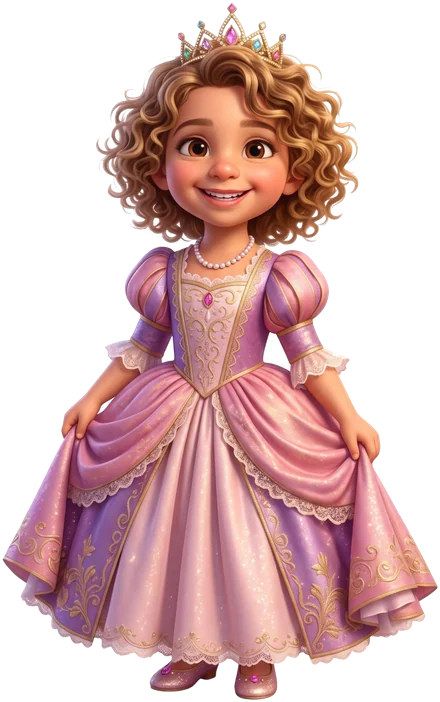
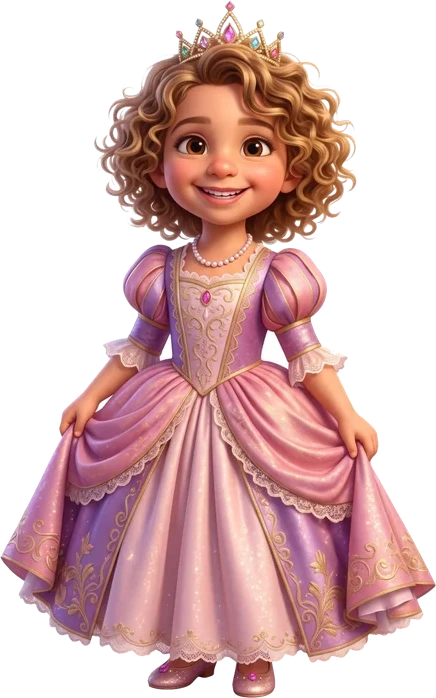
Hub picker: both characters at the same height, centered
Claude-Session: https://claude.ai/code/session_018BvvcA4usvTsW6JSxmvMw5

diff --git a/index.html b/index.html
@@ -25,12 +25,13 @@ h1{margin:12px 0 18px;text-align:center;font-family:var(--display);font-size:cla
 button{font:inherit;color:inherit}
 
 /* Picker */
-.kids{flex:1;display:grid;grid-template-columns:1fr 1fr;gap:clamp(12px,4vw,40px);align-items:end;max-width:760px;width:100%;margin:0 auto}
-.kid{border:0;background:none;padding:0;cursor:pointer;display:flex;flex-direction:column;align-items:center;gap:10px}
-.kid .fig{width:100%;height:min(52vh,520px);display:flex;align-items:flex-end;justify-content:center;
+#pick:not([hidden]){flex:1;display:flex;flex-direction:column}
+.kids{flex:1;display:grid;grid-template-columns:1fr 1fr;align-content:center;padding-bottom:8vh;gap:clamp(12px,4vw,40px);align-items:end;max-width:760px;width:100%;margin:0 auto}
+.kid{border:0;background:none;padding:0;cursor:pointer;min-width:0;display:flex;flex-direction:column;align-items:center;gap:10px}
+.kid .fig{width:100%;height:min(52vh,72vw,520px);display:flex;align-items:flex-end;justify-content:center;
   animation:idle 3.4s ease-in-out infinite}
 .kid:nth-child(2) .fig{animation-delay:-1.7s}
-.kid img{max-height:100%;max-width:100%;object-fit:contain;filter:drop-shadow(0 10px 14px rgba(40,10,60,.3));-webkit-user-drag:none}
+.kid img{height:100%;width:auto;max-width:none;filter:drop-shadow(0 10px 14px rgba(40,10,60,.3));-webkit-user-drag:none}
 .kid .name{font-family:var(--display);font-weight:700;font-size:clamp(28px,8vw,48px);color:#fff;border-radius:999px;padding:6px 30px;
   border:4px solid #fff;box-shadow:0 6px 0 rgba(40,10,60,.25)}
 .kid[data-k="melody"] .name{background:linear-gradient(180deg,#ff8fc0,#e0307f)}

diff --git a/sw.js b/sw.js
@@ -1,5 +1,5 @@
 // Offline support: serve from cache right away, refresh the cache from the network in the background.
-const CACHE = 'lumda-v3';
+const CACHE = 'lumda-v4';
 const FILES = ['./', 'index.html', 'apps/catalog.js', 'kids.js', 'assets/kids/melody.webp', 'assets/kids/yam.webp', 'manifest.webmanifest', 'icon-192.png', 'icon-512.png'];
 
 self.addEventListener('install', e => {
